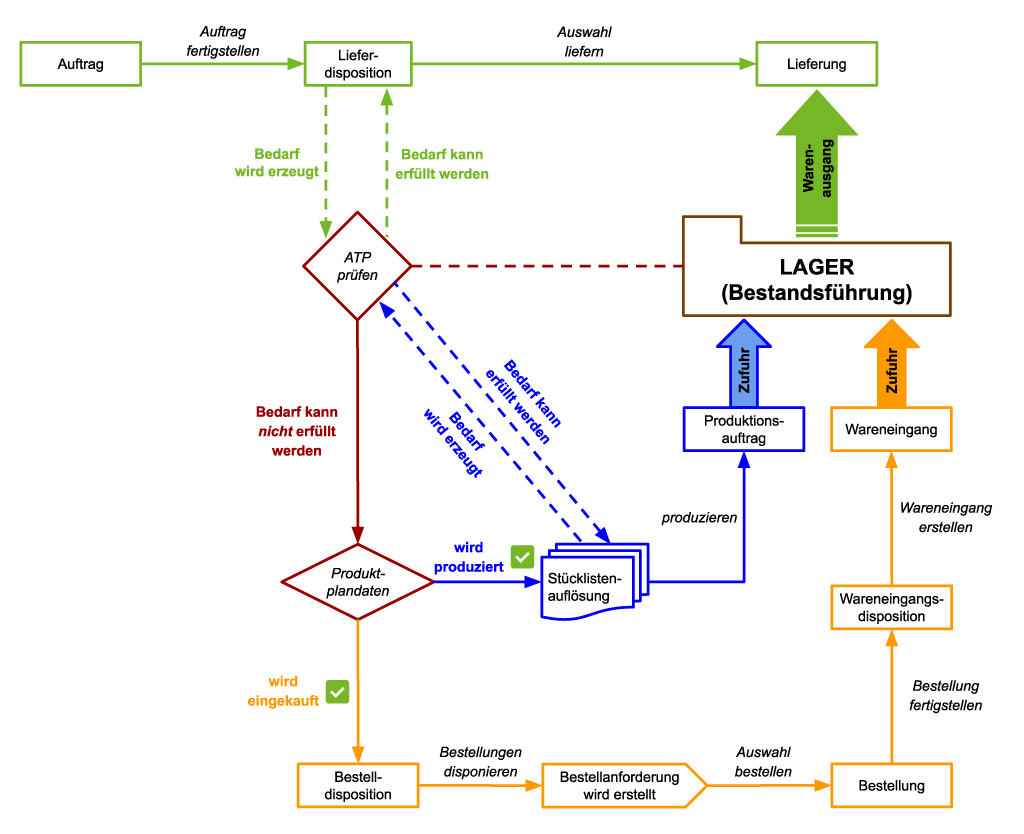
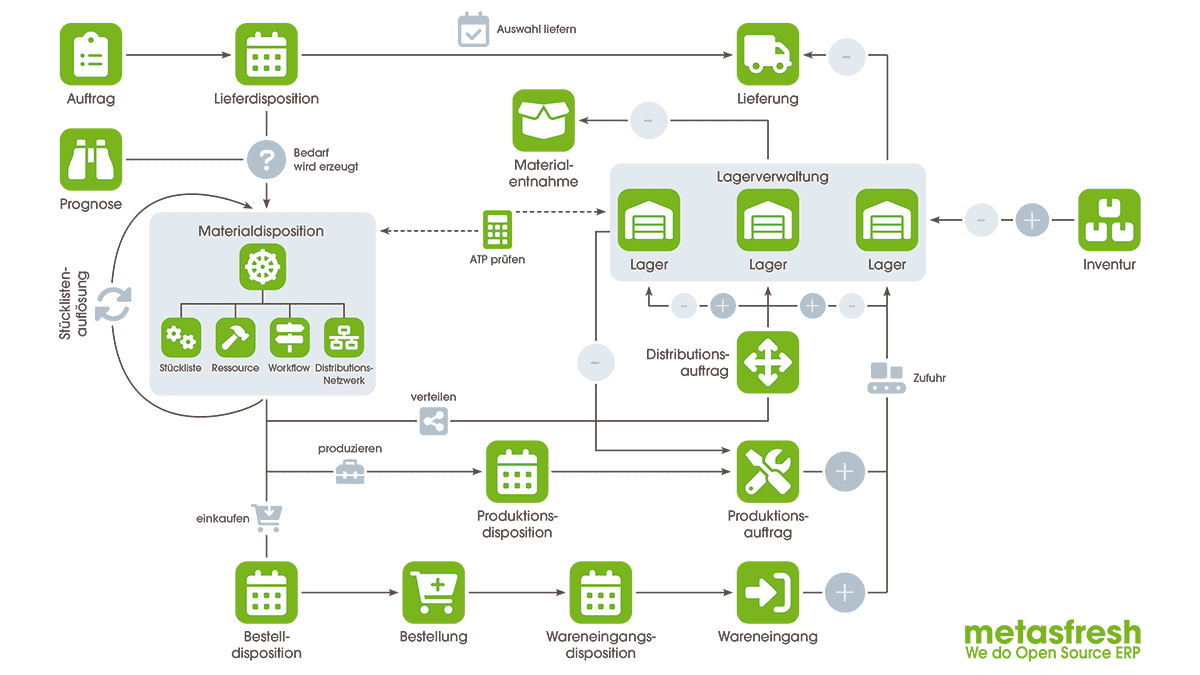
Update material schedule (basics) in DE
Replace old illustration with updated CI version
(EN version in preparation)

(this is related to issue #489 )

Changed region(s): [[0.0, 0.0, 0.9688, 0.9956], [0.875, 0.5911, 0.9688, 0.6533], [0.2188, 0.6222, 0.25, 0.6533]]

diff --git a/_webui_collection/DE/Materialdisposition_Grundlagen.md b/_webui_collection/DE/Materialdisposition_Grundlagen.md
@@ -1,5 +1,5 @@
 ---
-title: Wie funktioniert die Materialdisposition?
+title: Wie funktioniert die Materialdisposition? (Materialwirtschaft in metasfresh ERP)
 layout: default
 tags:
   - Anfängertipps für metasfresh
@@ -9,5 +9,5 @@ sequence: 30
 ref: material_schedule_basics
 ---
 
-## Überblick
-![Materialdisposition](assets/Materialdisposition_Grundlagen.png)
+## Übersicht Materialwirtschaft in metasfresh ERP
+<kbd><img src="assets/Materialdisposition_Grundlagen.png" alt="Abb.: Grundlagen Materialdisposition (Materialwirtschaft in metasfresh ERP)"></kbd>

diff --git a/_webui_collection/EN/Material_schedule_basics.md b/_webui_collection/EN/Material_schedule_basics.md
@@ -1,5 +1,5 @@
 ---
-title: How does the material schedule work?
+title: How does the material schedule work? (Materials management in metasfresh ERP)
 layout: default
 tags:
   - A Beginner's Guide to metasfresh
@@ -9,5 +9,5 @@ sequence: 30
 ref: material_schedule_basics
 ---
 
-## Overview
-![Material Schedule](assets/Material_schedule_basics.png)
+## Overview Materials Management in metasfresh ERP
+<kbd><img src="assets/Material_schedule_basics.png" alt="Fig.: Material Schedule Basics (Materials management in metasfresh ERP)"></kbd>
